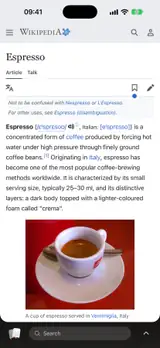
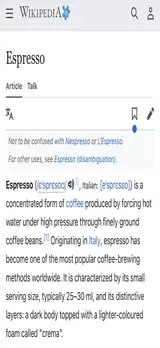
The TestFlight button sits on the phone's centre line, and no red above the keyboard
The left column had been empty, leaving the button alone on the right, so
on desktop it now sits between the subline and the phone. The launcher's
blurred backdrop drops the screenshot's red photo and status bar, and
clips rather than hides its overhang so focus can't scroll the screen.

diff --git a/Site/index.html b/Site/index.html
@@ -3,7 +3,7 @@
 <title>roko: the iOS browser built for speed</title>
 <meta name="description" content="roko is a light, fast browser for iPhone. It answers in the bar, summarizes pages and reads the web for you, and removes ads, trackers and cookie pop-ups.">
 <meta property="og:title" content="roko: the iOS browser built for speed"><meta property="og:description" content="Light, smart and nothing in your way. In beta on TestFlight."><meta property="og:image" content="https://rokobrowser.com/img/share.jpg?3"><meta name="twitter:card" content="summary_large_image"><meta name="theme-color" content="#0f0f0e">
-<link rel="icon" href="/img/icon-48.png"><link rel="apple-touch-icon" href="/img/icon-180.png"><link rel="preload" href="/fonts/funnel-display.woff2" as="font" type="font/woff2" crossorigin><link rel="preload" href="/img/page-blur.webp" as="image"><link rel="stylesheet" href="/style.css?100">
+<link rel="icon" href="/img/icon-48.png"><link rel="apple-touch-icon" href="/img/icon-180.png"><link rel="preload" href="/fonts/funnel-display.woff2" as="font" type="font/woff2" crossorigin><link rel="preload" href="/img/page-blur.webp?2" as="image"><link rel="stylesheet" href="/style.css?101">
 </head><body>
 <svg width="0" height="0" style="position:absolute" aria-hidden="true"><symbol id="i-news" viewBox="0 0 256 256"><path d="M88,112a8,8,0,0,1,8-8h80a8,8,0,0,1,0,16H96A8,8,0,0,1,88,112Zm8,40h80a8,8,0,0,0,0-16H96a8,8,0,0,0,0,16ZM232,64V184a24,24,0,0,1-24,24H32A24,24,0,0,1,8,184.11V88a8,8,0,0,1,16,0v96a8,8,0,0,0,16,0V64A16,16,0,0,1,56,48H216A16,16,0,0,1,232,64Zm-16,0H56V184a23.84,23.84,0,0,1-1.37,8H208a8,8,0,0,0,8-8Z"/></symbol><symbol id="i-compare" viewBox="0 0 256 256"><path d="M213.66,181.66l-32,32a8,8,0,0,1-11.32-11.32L188.69,184H48a8,8,0,0,1,0-16H188.69l-18.35-18.34a8,8,0,0,1,11.32-11.32l32,32A8,8,0,0,1,213.66,181.66Zm-139.32-64a8,8,0,0,0,11.32-11.32L67.31,88H208a8,8,0,0,0,0-16H67.31L85.66,53.66A8,8,0,0,0,74.34,42.34l-32,32a8,8,0,0,0,0,11.32Z"/></symbol><symbol id="i-close" viewBox="0 0 256 256"><path d="M205.66,194.34a8,8,0,0,1-11.32,11.32L128,139.31,61.66,205.66a8,8,0,0,1-11.32-11.32L116.69,128,50.34,61.66A8,8,0,0,1,61.66,50.34L128,116.69l66.34-66.35a8,8,0,0,1,11.32,11.32L139.31,128Z"/></symbol><symbol id="i-chevron" viewBox="0 0 256 256"><path d="M213.66,165.66a8,8,0,0,1-11.32,0L128,91.31,53.66,165.66a8,8,0,0,1-11.32-11.32l80-80a8,8,0,0,1,11.32,0l80,80A8,8,0,0,1,213.66,165.66Z"/></symbol><symbol id="i-history" viewBox="0 0 256 256"><path d="M136,80v43.47l36.12,21.67a8,8,0,0,1-8.24,13.72l-40-24A8,8,0,0,1,120,128V80a8,8,0,0,1,16,0Zm-8-48A95.44,95.44,0,0,0,60.08,60.15C52.81,67.51,46.35,74.59,40,82V64a8,8,0,0,0-16,0v40a8,8,0,0,0,8,8H72a8,8,0,0,0,0-16H49c7.15-8.42,14.27-16.35,22.39-24.57a80,80,0,1,1,1.66,114.75,8,8,0,1,0-11,11.64A96,96,0,1,0,128,32Z"/></symbol><symbol id="i-microphone" viewBox="0 0 256 256"><path d="M128,176a48.05,48.05,0,0,0,48-48V64a48,48,0,0,0-96,0v64A48.05,48.05,0,0,0,128,176ZM96,64a32,32,0,0,1,64,0v64a32,32,0,0,1-64,0Zm40,143.6V240a8,8,0,0,1-16,0V207.6A80.11,80.11,0,0,1,48,128a8,8,0,0,1,16,0,64,64,0,0,0,128,0,8,8,0,0,1,16,0A80.11,80.11,0,0,1,136,207.6Z"/></symbol><symbol id="i-search" viewBox="0 0 256 256"><path d="M229.66,218.34l-50.07-50.06a88.11,88.11,0,1,0-11.31,11.31l50.06,50.07a8,8,0,0,0,11.32-11.32ZM40,112a72,72,0,1,1,72,72A72.08,72.08,0,0,1,40,112Z"/></symbol><symbol id="i-equals" viewBox="0 0 256 256"><path d="M224,160a8,8,0,0,1-8,8H40a8,8,0,0,1,0-16H216A8,8,0,0,1,224,160ZM40,104H216a8,8,0,0,0,0-16H40a8,8,0,0,0,0,16Z"/></symbol><symbol id="i-eye" viewBox="0 0 256 256"><path d="M247.31,124.76c-.35-.79-8.82-19.58-27.65-38.41C194.57,61.26,162.88,48,128,48S61.43,61.26,36.34,86.35C17.51,105.18,9,124,8.69,124.76a8,8,0,0,0,0,6.5c.35.79,8.82,19.57,27.65,38.4C61.43,194.74,93.12,208,128,208s66.57-13.26,91.66-38.34c18.83-18.83,27.3-37.61,27.65-38.4A8,8,0,0,0,247.31,124.76ZM128,192c-30.78,0-57.67-11.19-79.93-33.25A133.47,133.47,0,0,1,25,128,133.33,133.33,0,0,1,48.07,97.25C70.33,75.19,97.22,64,128,64s57.67,11.19,79.93,33.25A133.46,133.46,0,0,1,231.05,128C223.84,141.46,192.43,192,128,192Zm0-112a48,48,0,1,0,48,48A48.05,48.05,0,0,0,128,80Zm0,80a32,32,0,1,1,32-32A32,32,0,0,1,128,160Z"/></symbol><symbol id="i-eyeClosed" viewBox="0 0 256 256"><path d="M228,175a8,8,0,0,1-10.92-3l-19-33.2A123.23,123.23,0,0,1,162,155.46l5.87,35.22a8,8,0,0,1-6.58,9.21A8.4,8.4,0,0,1,160,200a8,8,0,0,1-7.88-6.69l-5.77-34.58a133.06,133.06,0,0,1-36.68,0l-5.77,34.58A8,8,0,0,1,96,200a8.4,8.4,0,0,1-1.32-.11,8,8,0,0,1-6.58-9.21L94,155.46a123.23,123.23,0,0,1-36.06-16.69L39,172A8,8,0,1,1,25.06,164l20-35a153.47,153.47,0,0,1-19.3-20A8,8,0,1,1,38.22,99c16.6,20.54,45.64,45,89.78,45s73.18-24.49,89.78-45A8,8,0,1,1,230.22,109a153.47,153.47,0,0,1-19.3,20l20,35A8,8,0,0,1,228,175Z"/></symbol><symbol id="i-basket" viewBox="0 0 256 256"><path d="M136,120v56a8,8,0,0,1-16,0V120a8,8,0,0,1,16,0Zm36.84-.8-5.6,56A8,8,0,0,0,174.4,184a7.32,7.32,0,0,0,.81,0,8,8,0,0,0,7.95-7.2l5.6-56a8,8,0,0,0-15.92-1.6Zm-89.68,0a8,8,0,0,0-15.92,1.6l5.6,56a8,8,0,0,0,8,7.2,7.32,7.32,0,0,0,.81,0,8,8,0,0,0,7.16-8.76ZM239.93,89.06,224.86,202.12A16.06,16.06,0,0,1,209,216H47a16.06,16.06,0,0,1-15.86-13.88L16.07,89.06A8,8,0,0,1,24,80H68.37L122,18.73a8,8,0,0,1,12,0L187.63,80H232a8,8,0,0,1,7.93,9.06ZM89.63,80h76.74L128,36.15ZM222.86,96H33.14L47,200H209Z"/></symbol><symbol id="i-wx" viewBox="0 0 256 256"><path d="M164,72a76.2,76.2,0,0,0-20.26,2.73,55.63,55.63,0,0,0-9.41-11.54l9.51-13.57a8,8,0,1,0-13.11-9.18L121.22,54A55.9,55.9,0,0,0,96,48c-.58,0-1.16,0-1.74,0L91.37,31.71a8,8,0,1,0-15.75,2.77L78.5,50.82A56.1,56.1,0,0,0,55.23,65.67L41.61,56.14a8,8,0,1,0-9.17,13.11L46,78.77A55.55,55.55,0,0,0,40,104c0,.57,0,1.15,0,1.72L23.71,108.6a8,8,0,0,0,1.38,15.88,8.24,8.24,0,0,0,1.39-.12l16.32-2.88a55.74,55.74,0,0,0,5.86,12.42A52,52,0,0,0,84,224h80a76,76,0,0,0,0-152ZM56,104a40,40,0,0,1,72.54-23.24,76.26,76.26,0,0,0-35.62,40,52.14,52.14,0,0,0-31,4.17A40,40,0,0,1,56,104ZM164,208H84a36,36,0,1,1,4.78-71.69c-.37,2.37-.63,4.79-.77,7.23a8,8,0,0,0,16,.92,58.91,58.91,0,0,1,1.88-11.81c0-.16.09-.32.12-.48A60.06,60.06,0,1,1,164,208Z"/></symbol><symbol id="i-todo" viewBox="0 0 256 256"><path d="M224,128a8,8,0,0,1-8,8H128a8,8,0,0,1,0-16h88A8,8,0,0,1,224,128ZM128,72h88a8,8,0,0,0,0-16H128a8,8,0,0,0,0,16Zm88,112H128a8,8,0,0,0,0,16h88a8,8,0,0,0,0-16ZM82.34,42.34,56,68.69,45.66,58.34A8,8,0,0,0,34.34,69.66l16,16a8,8,0,0,0,11.32,0l32-32A8,8,0,0,0,82.34,42.34Zm0,64L56,132.69,45.66,122.34a8,8,0,0,0-11.32,11.32l16,16a8,8,0,0,0,11.32,0l32-32a8,8,0,0,0-11.32-11.32Zm0,64L56,196.69,45.66,186.34a8,8,0,0,0-11.32,11.32l16,16a8,8,0,0,0,11.32,0l32-32a8,8,0,0,0-11.32-11.32Z"/></symbol><symbol id="i-browse" viewBox="0 0 256 256"><path d="M197.58,129.06,146,110l-19-51.62a15.92,15.92,0,0,0-29.88,0L78,110l-51.62,19a15.92,15.92,0,0,0,0,29.88L78,178l19,51.62a15.92,15.92,0,0,0,29.88,0L146,178l51.62-19a15.92,15.92,0,0,0,0-29.88ZM137,164.22a8,8,0,0,0-4.74,4.74L112,223.85,91.78,169A8,8,0,0,0,87,164.22L32.15,144,87,123.78A8,8,0,0,0,91.78,119L112,64.15,132.22,119a8,8,0,0,0,4.74,4.74L191.85,144ZM144,40a8,8,0,0,1,8-8h16V16a8,8,0,0,1,16,0V32h16a8,8,0,0,1,0,16H184V64a8,8,0,0,1-16,0V48H152A8,8,0,0,1,144,40ZM248,88a8,8,0,0,1-8,8h-8v8a8,8,0,0,1-16,0V96h-8a8,8,0,0,1,0-16h8V72a8,8,0,0,1,16,0v8h8A8,8,0,0,1,248,88Z"/></symbol><symbol id="i-readLater" viewBox="0 0 256 256"><path d="M184,32H72A16,16,0,0,0,56,48V224a8,8,0,0,0,12.24,6.78L128,193.43l59.77,37.35A8,8,0,0,0,200,224V48A16,16,0,0,0,184,32Zm0,177.57-51.77-32.35a8,8,0,0,0-8.48,0L72,209.57V48H184Z"/></symbol><symbol id="i-translate" viewBox="0 0 256 256"><path d="M247.15,212.42l-56-112a8,8,0,0,0-14.31,0l-21.71,43.43A88,88,0,0,1,108,126.93,103.65,103.65,0,0,0,135.69,64H160a8,8,0,0,0,0-16H104V32a8,8,0,0,0-16,0V48H32a8,8,0,0,0,0,16h87.63A87.76,87.76,0,0,1,96,116.35a87.74,87.74,0,0,1-19-31,8,8,0,1,0-15.08,5.34A103.63,103.63,0,0,0,84,127a87.55,87.55,0,0,1-52,17,8,8,0,0,0,0,16,103.46,103.46,0,0,0,64-22.08,104.18,104.18,0,0,0,51.44,21.31l-26.6,53.19a8,8,0,0,0,14.31,7.16L148.94,192h70.11l13.79,27.58A8,8,0,0,0,240,224a8,8,0,0,0,7.15-11.58ZM156.94,176,184,121.89,211.05,176Z"/></symbol><symbol id="i-play" viewBox="0 0 256 256"><path d="M232.4,114.49,88.32,26.35a16,16,0,0,0-16.2-.3A15.86,15.86,0,0,0,64,39.87V216.13A15.94,15.94,0,0,0,80,232a16.07,16.07,0,0,0,8.36-2.35L232.4,141.51a15.81,15.81,0,0,0,0-27ZM80,215.94V40l143.83,88Z"/></symbol><symbol id="i-today" viewBox="0 0 256 256"><path d="M240,152H199.55a73.54,73.54,0,0,0,.45-8,72,72,0,0,0-144,0,73.54,73.54,0,0,0,.45,8H16a8,8,0,0,0,0,16H240a8,8,0,0,0,0-16ZM72,144a56,56,0,1,1,111.41,8H72.59A56.13,56.13,0,0,1,72,144Zm144,56a8,8,0,0,1-8,8H48a8,8,0,0,1,0-16H208A8,8,0,0,1,216,200ZM72.84,43.58a8,8,0,0,1,14.32-7.16l8,16a8,8,0,0,1-14.32,7.16Zm-56,48.84a8,8,0,0,1,10.74-3.57l16,8a8,8,0,0,1-7.16,14.31l-16-8A8,8,0,0,1,16.84,92.42Zm192,15.16a8,8,0,0,1,3.58-10.73l16-8a8,8,0,1,1,7.16,14.31l-16,8a8,8,0,0,1-10.74-3.58Zm-48-55.16,8-16a8,8,0,0,1,14.32,7.16l-8,16a8,8,0,1,1-14.32-7.16Z"/></symbol><symbol id="i-reopen" viewBox="0 0 256 256"><path d="M224,128a96,96,0,0,1-94.71,96H128A95.38,95.38,0,0,1,62.1,197.8a8,8,0,0,1,11-11.63A80,80,0,1,0,71.43,71.39a3.07,3.07,0,0,1-.26.25L44.59,96H72a8,8,0,0,1,0,16H24a8,8,0,0,1-8-8V56a8,8,0,0,1,16,0V85.8L60.25,60A96,96,0,0,1,224,128Z"/></symbol><symbol id="i-download" viewBox="0 0 256 256"><path d="M224,144v64a8,8,0,0,1-8,8H40a8,8,0,0,1-8-8V144a8,8,0,0,1,16,0v56H208V144a8,8,0,0,1,16,0Zm-101.66,5.66a8,8,0,0,0,11.32,0l40-40a8,8,0,0,0-11.32-11.32L136,124.69V32a8,8,0,0,0-16,0v92.69L93.66,98.34a8,8,0,0,0-11.32,11.32Z"/></symbol><symbol id="i-split" viewBox="0 0 256 256"><path d="M208,136H48a16,16,0,0,0-16,16v40a16,16,0,0,0,16,16H208a16,16,0,0,0,16-16V152A16,16,0,0,0,208,136Zm0,56H48V152H208v40Zm0-144H48A16,16,0,0,0,32,64v40a16,16,0,0,0,16,16H208a16,16,0,0,0,16-16V64A16,16,0,0,0,208,48Zm0,56H48V64H208v40Z"/></symbol><symbol id="i-hideItems" viewBox="0 0 256 256"><path d="M225,80.4,183.6,39a24,24,0,0,0-33.94,0L31,157.66a24,24,0,0,0,0,33.94l30.06,30.06A8,8,0,0,0,66.74,224H216a8,8,0,0,0,0-16h-84.7L225,114.34A24,24,0,0,0,225,80.4ZM108.68,208H70.05L42.33,180.28a8,8,0,0,1,0-11.31L96,115.31,148.69,168Zm105-105L160,156.69,107.31,104,161,50.34a8,8,0,0,1,11.32,0l41.38,41.38a8,8,0,0,1,0,11.31Z"/></symbol><symbol id="i-topic-speed" viewBox="0 0 256 256"><path d="M215.79,118.17a8,8,0,0,0-5-5.66L153.18,90.9l14.66-73.33a8,8,0,0,0-13.69-7l-112,120a8,8,0,0,0,3,13l57.63,21.61L88.16,238.43a8,8,0,0,0,13.69,7l112-120A8,8,0,0,0,215.79,118.17ZM109.37,214l10.47-52.38a8,8,0,0,0-5-9.06L62,132.71l84.62-90.66L136.16,94.43a8,8,0,0,0,5,9.06l52.8,19.8Z"/></symbol><symbol id="i-faceid" viewBox="0 0 256 256"><path d="M224,48V88a8,8,0,0,1-16,0V56H176a8,8,0,0,1,0-16h40A8,8,0,0,1,224,48ZM80,40H40a8,8,0,0,0-8,8V88a8,8,0,0,0,16,0V56H80a8,8,0,0,0,0-16ZM216,160a8,8,0,0,0-8,8v32H176a8,8,0,0,0,0,16h40a8,8,0,0,0,8-8V168A8,8,0,0,0,216,160ZM80,200H48V168a8,8,0,0,0-16,0v40a8,8,0,0,0,8,8H80a8,8,0,0,0,0-16Zm12-92V96a8,8,0,0,0-16,0v12a8,8,0,0,0,16,0Zm88,0V96a8,8,0,0,0-16,0v12a8,8,0,0,0,16,0Zm-48,28V96a8,8,0,0,0-16,0v32h-4a8,8,0,0,0,0,16h12A8,8,0,0,0,132,136Zm30.6,23.4a8,8,0,0,0-11.2,1.4,28,28,0,0,1-46.8,0,8,8,0,1,0-12.6,9.8,44,44,0,0,0,72,0A8,8,0,0,0,162.6,159.4Z"/></symbol></svg>
 <nav class="nav" aria-label="Main">
@@ -16,7 +16,6 @@
   <h1>The iOS browser built for speed.</h1>
   <p class="hero-sub">Light, smart and nothing in your way.</p>
   <div class="stage">
-    <div class="flank left"></div>
     <div class="device live">
       <div class="ui launcher">
         <div class="status"><span>9:41</span><i class="island"></i><span class="bars"><svg viewBox="0 0 44 14" fill="currentColor" aria-hidden="true"><rect x="0" y="9" width="3.500" height="5" rx="1"/><rect x="5.500" y="6.500" width="3.500" height="7.500" rx="1"/><rect x="11" y="3.500" width="3.500" height="10.500" rx="1"/><rect x="16.500" y="0" width="3.500" height="14" rx="1"/><rect x="26" y="1" width="16" height="12" rx="3.500"/><rect x="42.800" y="4.500" width="1.200" height="5" rx=".6"/></svg></span></div>
@@ -36,7 +35,7 @@
       </div>
       </div>
     </div>
-    <div class="flank right"><a class="go big" href="https://testflight.apple.com/join/M2ZrEUV1">Join the TestFlight beta <svg class="arr" viewBox="0 0 12 12" fill="none" stroke="currentColor" stroke-width="1.8" stroke-linecap="round" stroke-linejoin="round" aria-hidden="true"><path d="M2.5 9.5l7-7M4 2.5h5.5V8"/></svg></a><p>Free and open source. iPhone, iOS 27 or later.</p></div>
+    <div class="join"><a class="go big" href="https://testflight.apple.com/join/M2ZrEUV1">Join the TestFlight beta <svg class="arr" viewBox="0 0 12 12" fill="none" stroke="currentColor" stroke-width="1.8" stroke-linecap="round" stroke-linejoin="round" aria-hidden="true"><path d="M2.5 9.5l7-7M4 2.5h5.5V8"/></svg></a><p>Free and open source. iPhone, iOS 27 or later.</p></div>
   </div>
 </header>
 

diff --git a/Site/style.css b/Site/style.css
@@ -57,10 +57,8 @@ h3{font-size:clamp(24px,2.1vw,30px);line-height:1.12}
 .hero h1{max-width:15ch}
 .hero-sub{margin-top:16px;color:var(--soft);font-size:clamp(17px,1.4vw,19px)}
 .stage{position:relative;z-index:1;display:grid;justify-items:center;margin-top:clamp(32px,min(6vw,6vh),88px);width:100%}
-.flank.left{margin-bottom:18px;color:var(--soft);font-size:15px}
-.flank.left br{display:none}
-.flank.right{margin-top:28px}
-.flank.right p{margin-top:12px;color:#f4f1ebd9;font-size:15px}
+.join{margin-top:28px}
+.join p{margin-top:12px;color:#f4f1ebd9;font-size:15px}
 /* The phone is an iPhone's real shape, 402 by 874 points: everything inside
    is measured in the screen's own width, so it keeps its proportions at any size. */
 .live{--w:min(344px,88vw);text-align:left}
@@ -363,7 +361,7 @@ div>.row:has(span){min-height:54px}
 .tile.lead .talkpage{padding:12px 18px 22px 12px}
 .talk .band{height:70px;padding:0 6px 8px 14px;color:#e7e7e4}
 .fan{position:relative;flex:none;width:50px;height:34px}
-.fan i{position:absolute;left:3px;top:3px;width:21px;height:28px;border-radius:5px;background:#57534e url(/img/page-blur.webp) top/cover;box-shadow:inset 0 0 0 1px #ffffff1f;transform:rotate(-9deg) translateY(2px);filter:brightness(.62)}
+.fan i{position:absolute;left:3px;top:3px;width:21px;height:28px;border-radius:5px;background:#57534e url(/img/page-blur.webp?2) top/cover;box-shadow:inset 0 0 0 1px #ffffff1f;transform:rotate(-9deg) translateY(2px);filter:brightness(.62)}
 .fan i+i{left:12px;transform:rotate(7deg) translateY(-1px);filter:none}
 .talk .band .bk{width:50px;height:44px}
 .talk .band .bk .ic{width:19px;height:19px}
@@ -437,8 +435,8 @@ div>.row:has(span){min-height:54px}
 .feedui li b{color:#e7e7e4;font-weight:600}
 .feedui sup{margin-left:.900cqw;color:#e7e7e4;font-size:2.500cqw;font-weight:600;line-height:0;font-variant-numeric:tabular-nums}
 /* The launcher stands over the page you were on: dimmed and out of focus, as in the app. */
-.ui.launcher{position:relative;isolation:isolate;background:#343537}
-.ui.launcher::before{content:"";position:absolute;inset:-8%;z-index:-1;background:url(/img/page-blur.webp) top/cover;filter:blur(16px) brightness(.27) saturate(.75)}
+.ui.launcher{position:relative;isolation:isolate;overflow:clip;background:#343537}
+.ui.launcher::before{content:"";position:absolute;inset:-8%;z-index:-1;background:url(/img/page-blur.webp?2) top/cover;filter:blur(16px) brightness(.27) saturate(.75)}
 .ui.launcher .field{height:13.600cqw;margin:2.200cqw 2.200cqw 2cqw;padding:0 0 0 4cqw;background:#1b1b1c;border-radius:5.800cqw;box-shadow:inset 0 0 0 .250cqw #ffffff14}
 .ui.launcher .answer{min-height:13.400cqw;background:#ffffff17;border-radius:5.200cqw}
 .fend{position:relative;display:grid;place-items:center;flex:none;width:11cqw;height:100%;color:#c9c6bf}
@@ -525,11 +523,7 @@ footer .need{margin-top:14px;color:#fff;font-size:15px}
   .jobs{grid-template-columns:repeat(6,minmax(0,1fr))}
   .tile{grid-column:span 2}
   .tile.lead{grid-column:span 4}
-  .stage{grid-template-columns:minmax(0,1fr) auto minmax(0,1fr);gap:clamp(36px,5vw,84px);align-items:start}
-  .flank.left,.flank.right{margin:clamp(70px,9vh,120px) 0 0}
-  .flank.left br{display:inline}
-  .flank.left{justify-self:end;text-align:right;font:500 clamp(24px,2.1vw,30px)/1.2 var(--display);color:var(--ink)}
-  .flank.right{justify-self:start;text-align:left}
+  .join{order:-1;margin:0 0 clamp(32px,min(5vw,5vh),64px)}
 }
 /* One phone, three things: it holds still in one place and only its screen and the words around it change.
    JS turns this on when motion is welcome and there's room; otherwise the three stack in plain flow. */

diff --git a/Site/privacy/index.html b/Site/privacy/index.html
@@ -1,6 +1,6 @@
 <!doctype html>
 <html lang="en"><head><meta charset="utf-8"><meta name="viewport" content="width=device-width,initial-scale=1,viewport-fit=cover">
-<title>roko: privacy policy</title><meta name="description" content="What roko keeps and what leaves your iPhone."><meta name="theme-color" content="#0f0f0e"><link rel="icon" href="/img/icon-48.png"><link rel="preload" href="/fonts/funnel-display.woff2" as="font" type="font/woff2" crossorigin><link rel="stylesheet" href="/style.css?100"></head><body>
+<title>roko: privacy policy</title><meta name="description" content="What roko keeps and what leaves your iPhone."><meta name="theme-color" content="#0f0f0e"><link rel="icon" href="/img/icon-48.png"><link rel="preload" href="/fonts/funnel-display.woff2" as="font" type="font/woff2" crossorigin><link rel="stylesheet" href="/style.css?101"></head><body>
 <nav class="nav" aria-label="Main">
   <a class="mark" href="/"><svg viewBox="0 0 100 100" aria-hidden="true"><path fill="currentColor" fill-rule="evenodd" d="M50 2a48 48 0 1 0 0 96a48 48 0 0 0 0-96Zm8.500 24a24 24 0 1 1 0 48a24 24 0 0 1 0-48Z"/></svg>roko</a>
   <a class="link" href="/#fast">Speed</a><a class="link" href="/#smart">Smart</a><a class="link" href="/#clean">Clean</a><a class="link" href="/support">Support</a>

diff --git a/Site/support/index.html b/Site/support/index.html
@@ -1,6 +1,6 @@
 <!doctype html>
 <html lang="en"><head><meta charset="utf-8"><meta name="viewport" content="width=device-width,initial-scale=1,viewport-fit=cover">
-<title>roko: support</title><meta name="description" content="Help with roko, the browser for iPhone."><meta name="theme-color" content="#0f0f0e"><link rel="icon" href="/img/icon-48.png"><link rel="preload" href="/fonts/funnel-display.woff2" as="font" type="font/woff2" crossorigin><link rel="stylesheet" href="/style.css?100"></head><body>
+<title>roko: support</title><meta name="description" content="Help with roko, the browser for iPhone."><meta name="theme-color" content="#0f0f0e"><link rel="icon" href="/img/icon-48.png"><link rel="preload" href="/fonts/funnel-display.woff2" as="font" type="font/woff2" crossorigin><link rel="stylesheet" href="/style.css?101"></head><body>
 <nav class="nav" aria-label="Main">
   <a class="mark" href="/"><svg viewBox="0 0 100 100" aria-hidden="true"><path fill="currentColor" fill-rule="evenodd" d="M50 2a48 48 0 1 0 0 96a48 48 0 0 0 0-96Zm8.500 24a24 24 0 1 1 0 48a24 24 0 0 1 0-48Z"/></svg>roko</a>
   <a class="link" href="/#fast">Speed</a><a class="link" href="/#smart">Smart</a><a class="link" href="/#clean">Clean</a><a class="link" href="/support">Support</a>

diff --git a/Site/changes/index.html b/Site/changes/index.html
@@ -1,6 +1,6 @@
 <!doctype html>
 <html lang="en"><head><meta charset="utf-8"><meta name="viewport" content="width=device-width,initial-scale=1,viewport-fit=cover">
-<title>roko: changelog</title><meta name="description" content="What changed in roko, the browser for iPhone, in each public beta."><meta name="theme-color" content="#0f0f0e"><link rel="icon" href="/img/icon-48.png"><link rel="preload" href="/fonts/funnel-display.woff2" as="font" type="font/woff2" crossorigin><link rel="stylesheet" href="/style.css?100"></head><body class="changes">
+<title>roko: changelog</title><meta name="description" content="What changed in roko, the browser for iPhone, in each public beta."><meta name="theme-color" content="#0f0f0e"><link rel="icon" href="/img/icon-48.png"><link rel="preload" href="/fonts/funnel-display.woff2" as="font" type="font/woff2" crossorigin><link rel="stylesheet" href="/style.css?101"></head><body class="changes">
 <div class="dawn"></div>
 <nav class="nav" aria-label="Main">
   <a class="mark" href="/"><svg viewBox="0 0 100 100" aria-hidden="true"><path fill="currentColor" fill-rule="evenodd" d="M50 2a48 48 0 1 0 0 96a48 48 0 0 0 0-96Zm8.500 24a24 24 0 1 1 0 48a24 24 0 0 1 0-48Z"/></svg>roko</a>

diff --git a/Site/404.html b/Site/404.html
@@ -1,6 +1,6 @@
 <!doctype html>
 <html lang="en"><head><meta charset="utf-8"><meta name="viewport" content="width=device-width,initial-scale=1,viewport-fit=cover">
-<title>roko: page not found</title><meta name="robots" content="noindex"><meta name="theme-color" content="#0f0f0e"><link rel="icon" href="/img/icon-48.png"><link rel="preload" href="/fonts/funnel-display.woff2" as="font" type="font/woff2" crossorigin><link rel="stylesheet" href="/style.css?100"></head><body>
+<title>roko: page not found</title><meta name="robots" content="noindex"><meta name="theme-color" content="#0f0f0e"><link rel="icon" href="/img/icon-48.png"><link rel="preload" href="/fonts/funnel-display.woff2" as="font" type="font/woff2" crossorigin><link rel="stylesheet" href="/style.css?101"></head><body>
 <nav class="nav" aria-label="Main">
   <a class="mark" href="/"><svg viewBox="0 0 100 100" aria-hidden="true"><path fill="currentColor" fill-rule="evenodd" d="M50 2a48 48 0 1 0 0 96a48 48 0 0 0 0-96Zm8.500 24a24 24 0 1 1 0 48a24 24 0 0 1 0-48Z"/></svg>roko</a>
   <a class="link" href="/#fast">Speed</a><a class="link" href="/#smart">Smart</a><a class="link" href="/#clean">Clean</a><a class="link" href="/support">Support</a>
